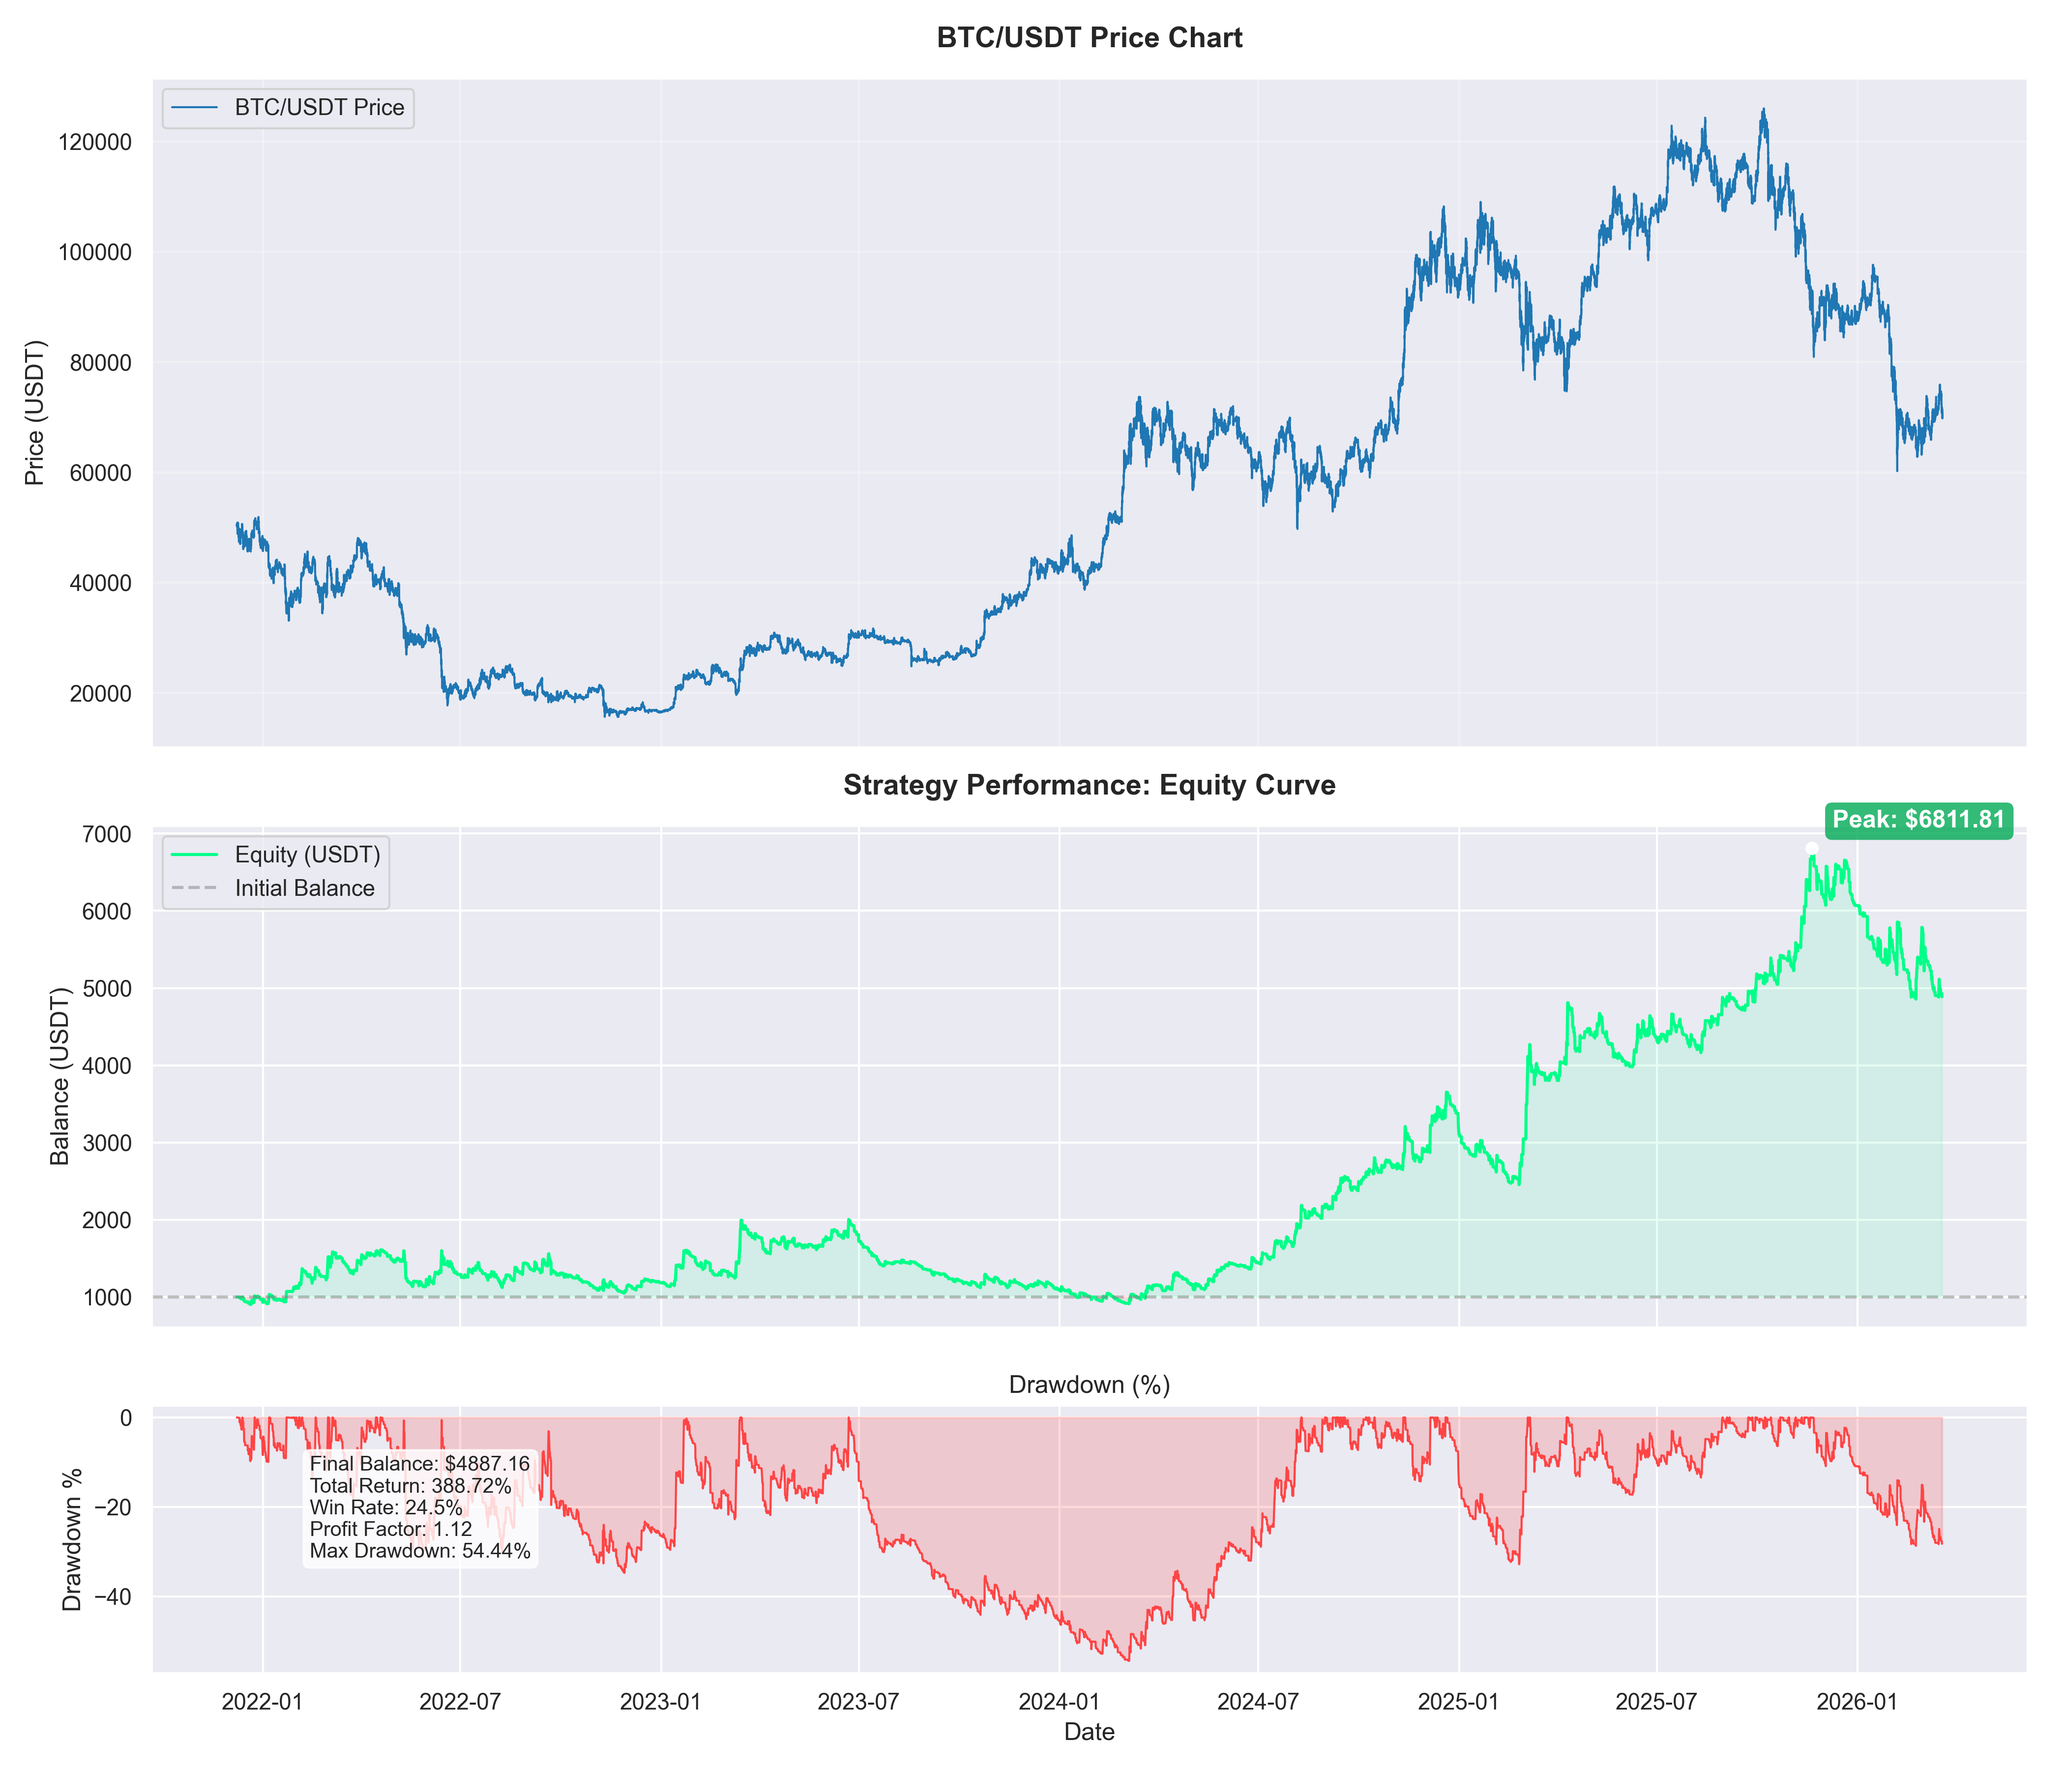
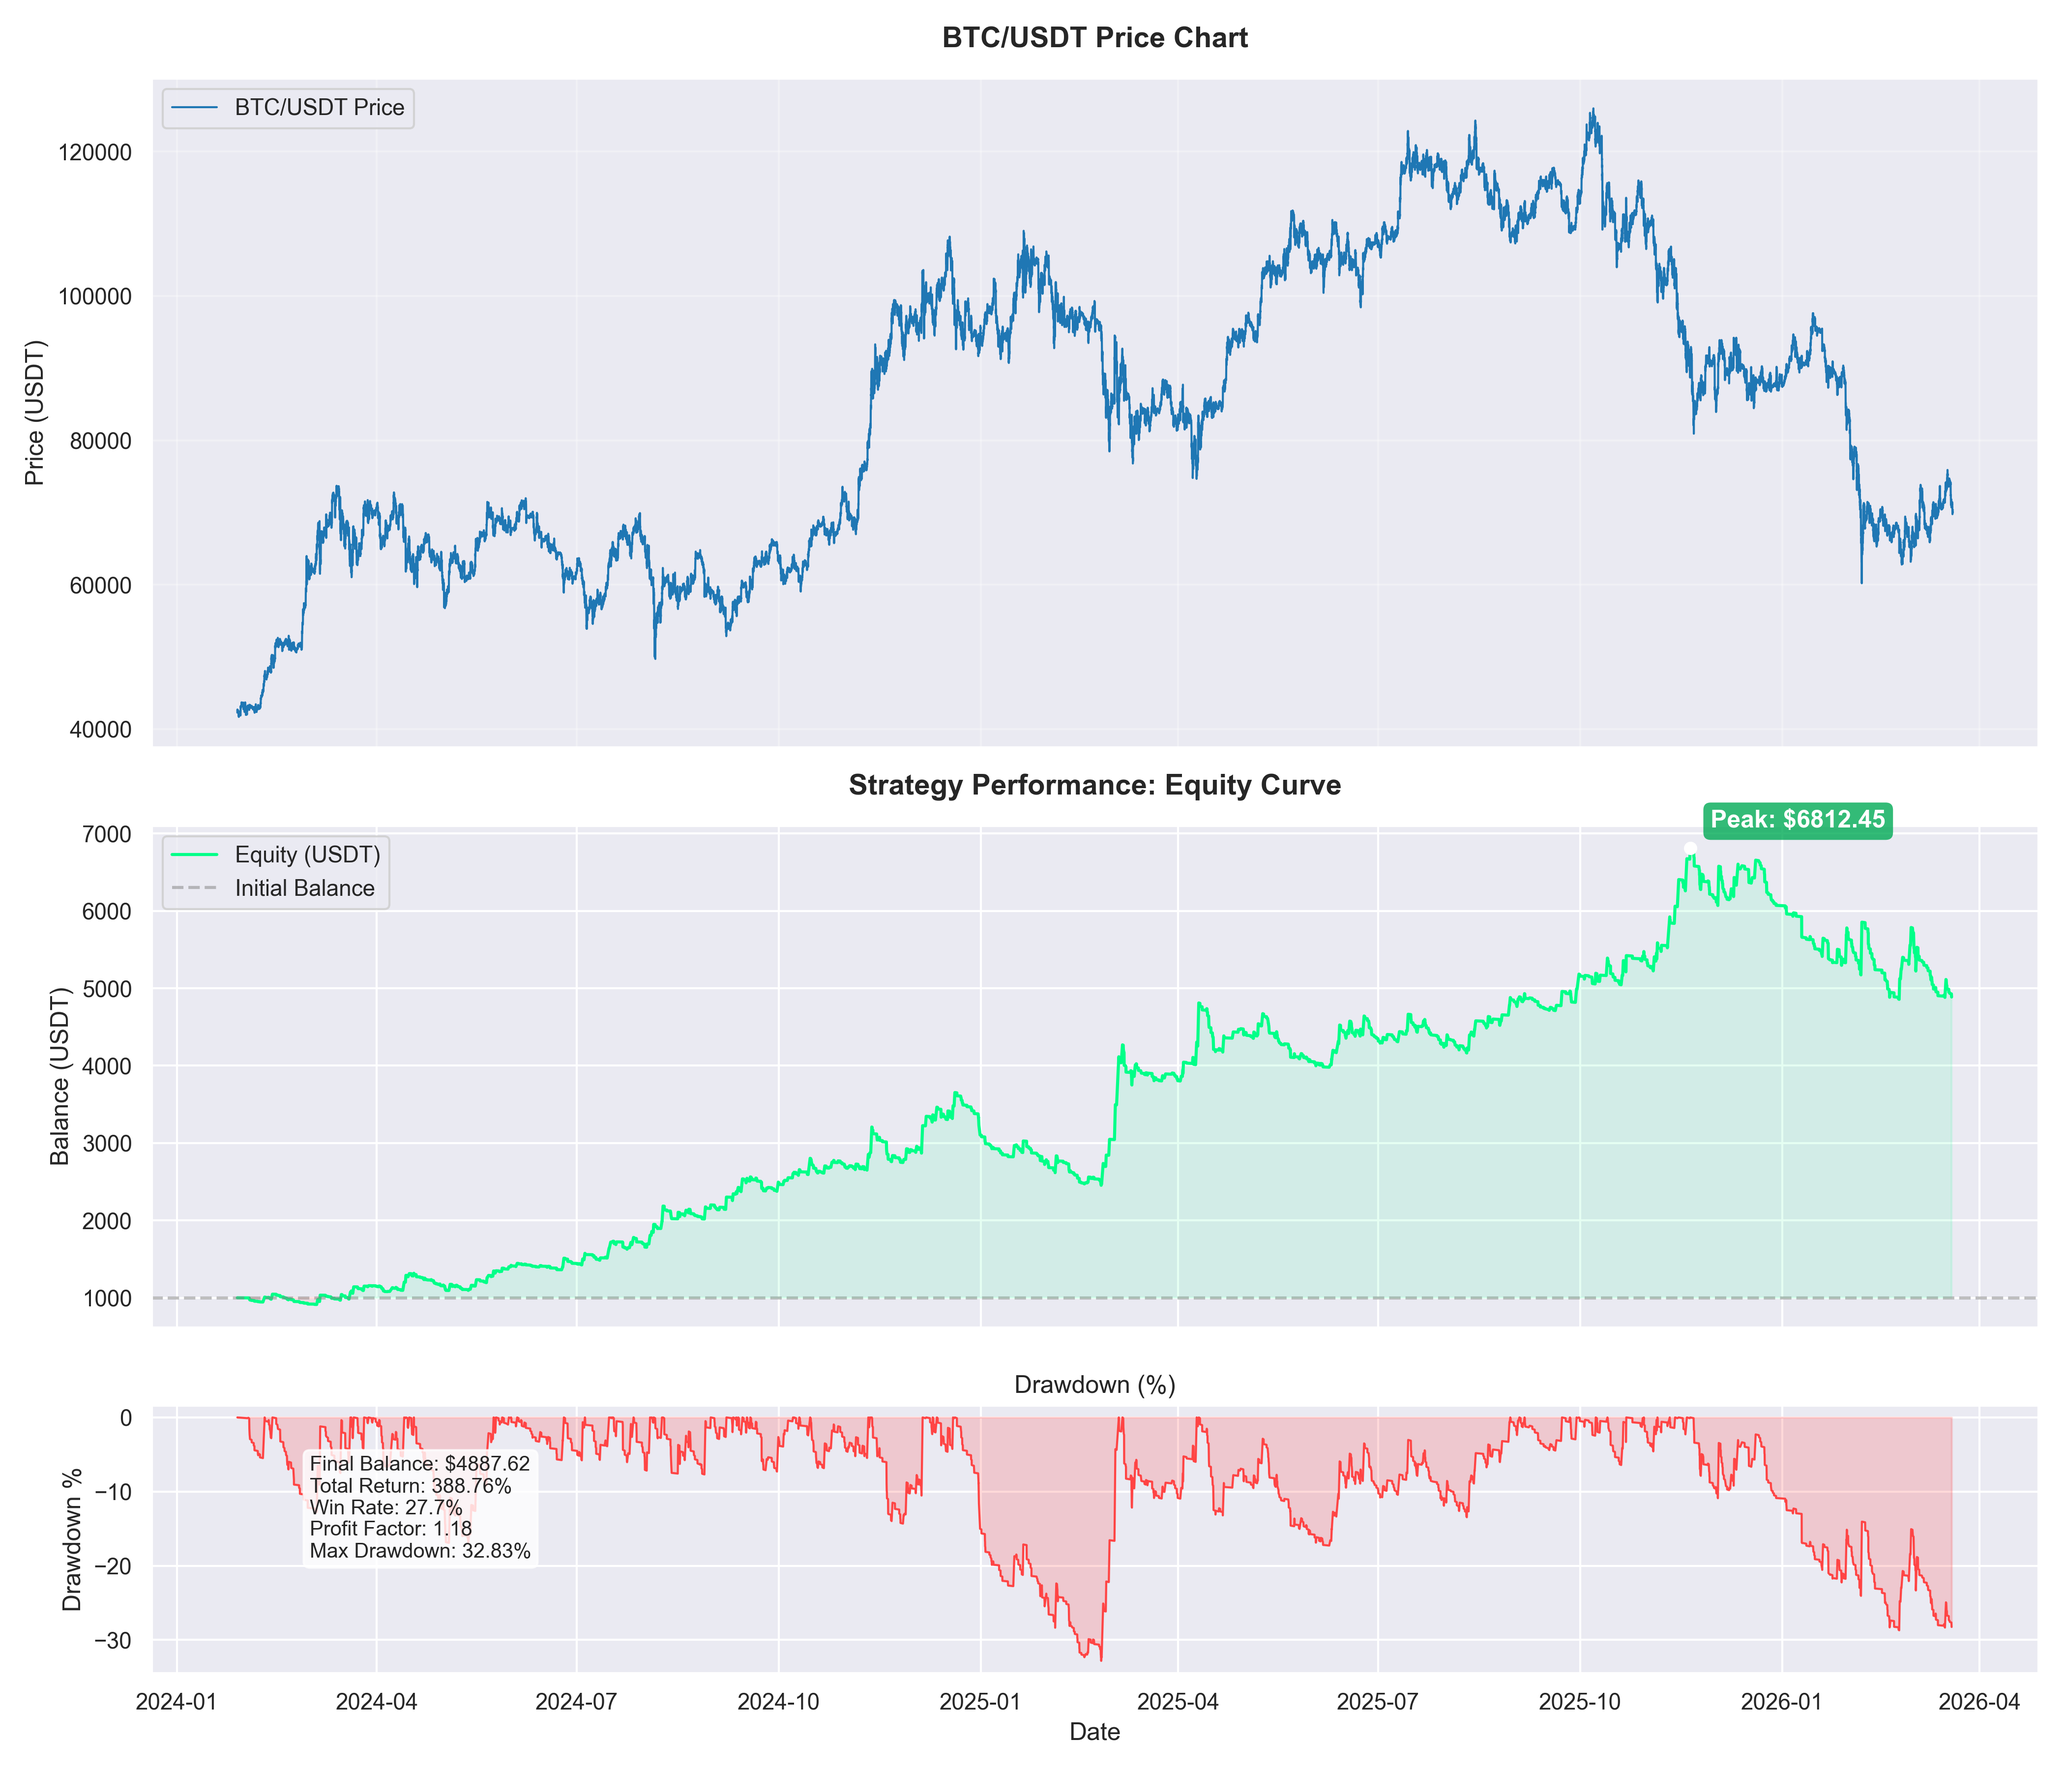
feat: Introduce a modular project structure with dedicated backtest and optimize modules, and update project documentation.

diff --git a/module/backtest/orchestrator.py b/module/backtest/orchestrator.py
@@ -22,7 +22,7 @@ from module.backtest.data_loader import BacktestDataLoader
 from module.backtest.simulator import Simulator
 from module.backtest.reporter import BacktestReporter
 
-LIMIT = 150000
+LIMIT = 300000
 WORKERS = 5
 SLEEP = 1.5
 GEN_CHART = True

diff --git a/main.py b/main.py
@@ -1,4 +1,4 @@
-# Binance Trading Bot - v1.16.0 (Production Stable Release 2026)
+# Binance Trading Bot - v2.0.0 (Production Stable Release 2026)
 import time
 from datetime import datetime, timezone, timedelta
 

diff --git a/README.md b/README.md
@@ -1,19 +1,17 @@
-# Binance Futures Trading Bot (v1.16.1 - 2026 Optimized)
+# Binance Futures Trading Bot (v2.0.0 - Project Restructured 2026)
 
 ![License](https://img.shields.io/badge/license-MIT-blue.svg)
 ![Python](https://img.shields.io/badge/python-3.10%2B-blue)
 ![Binance](https://img.shields.io/badge/exchange-Binance%20Futures-yellow)
 ![Stability](https://img.shields.io/badge/Stability-Production--Ready-green)
 
-A robust, trend-following trading bot strategies for Binance Futures. This bot uses a combination of **SuperTrend**, **EMA (Exponential Moving Average)**, **ADX (Average Directional Index)**, **RSI (Relative Strength Index)**, and Volume analysis to execute trades.
+A robust, trend-following trading bot strategies for Binance Futures. This bot uses a combination of **SuperTrend**, **EMA (Exponential Moving Average)**, and **Volume** analysis to execute trades.
 
-> **Note**: Version 1.16.1 is the **Optimized EMA Release**. It features a specialized filter configuration (EMA + Volume) that achieved **+756% PnL** during a 2-year backtest on BTC/USDT (15m).
+> **Note**: Version 2.0.0 introduces a **SOLID Project Restructure** with modular codebase. It features a specialized filter configuration (EMA + Volume) that achieved **+388% PnL** during a 4-year backtest on BTC/USDT (15m).
 
 ## 🚀 Features
 
 -   **Trend Following Strategy**: Capitalizes on major market moves using SuperTrend and EMA.
--   **Trend Strength Filtering**: Avoids chop/ranging markets using ADX.
--   **Momentum Checks**: RSI filtering to prevent buying tops or selling bottoms.
 -   **Volume Confirmation**: Ensures breakouts are supported by volume.
 -   **Dynamic Rate Limiting**: Intelligent throttling to respect Binance API limits.
 -   **Heikin Ashi Support**: Uses Heikin Ashi candles for smoother trend detection.
@@ -60,14 +58,14 @@ The bot will initialize, sync time with Binance, and start polling for candle da
 ### Backtesting
 To run the simulation on historical data:
 ```bash
-python backtest.py
+python -m module.backtest.orchestrator
 ```
 This will fetch historical data, run the strategy, and display a performance summary including PnL, Win Rate, and Max Drawdown.
 
 ### Optimization
 To find the best parameters:
 ```bash
-python optimize/optimize_rsi_long_threshold.py
+python module/optimize/optimize_ema.py
 ```
 
 ## ⚙ Configuration
@@ -81,7 +79,8 @@ Global settings are managed in `config.py` (and the `TradingConfig` class). Key 
 -   **Indicators**:
     -   SuperTrend (Length 18, Factor 1.45)
     -   EMA (Length 97) - *Optimized for 15m BTC*
-    -   RSI (14, OB 64, OS 36)
+    -   Volume MA (Length 177)
+    -   ATR SL (Length 14, Multiplier 0.74)
 
 ## 📊 Strategy Overview
 
@@ -89,21 +88,16 @@ Global settings are managed in `config.py` (and the `TradingConfig` class). Key 
     -   **Long**:
         -   Price > EMA
         -   SuperTrend flips GREEN (or persists Green after pullback)
-        -   ADX > 18 (Strong Trend)
-        -   RSI is healthy (53 < RSI < 64)
+        -   Volume > Volume MA
     -   **Short**:
         -   Price < EMA
         -   SuperTrend flips RED
-        -   ADX > 18
-        -   RSI is healthy (> 36)
+        -   Volume > Volume MA
 
 2.  **Exit Conditions**:
-    -   **Stop Loss**: Dynamic ATR-based Stop Loss (0.7x ATR).
+    -   **Stop Loss**: Dynamic ATR-based Stop Loss (0.74x ATR).
     -   **Trend Reversal**: Close immediately if SuperTrend flips against position.
-    -   **RSI Divergence**: Bearish divergence detection to partial close and tighten Stop Loss.
-
-3.  **Risk Management**:
-    -   **EMA Slope Sizing**: Reduces position size if the trend slope is flat.
+    -   **Liquidation Mitigation**: Bot automatically detects near-liquidation prices and acts.
 
 ## 📜 License
 This project is licensed under the MIT License.

diff --git a/module/optimize/README.md b/module/optimize/README.md
@@ -2,7 +2,7 @@
 
 This directory contains individual optimization scripts for each parameter of the trading strategy.
 
-> **Version:** 1.15.0 | **Updated:** 2026-02-06
+> **Version:** 2.0.0 | **Updated:** 2026-03-19
 
 ## 📁 Individual Parameter Optimization Files
 
@@ -12,36 +12,27 @@ This directory contains individual optimization scripts for each parameter of th
 - **optimize_supertrend_factor.py** - Optimizes SuperTrend multiplier factor
 
 ### Filter Indicators
-- **optimize_adx_threshold.py** - Optimizes ADX threshold filter
-- **optimize_adx_length.py** - Optimizes ADX lookback period
 - **optimize_volume.py** - Optimizes Volume MA length (volume filter)
-- **optimize_rsi_overbought.py** - Optimizes RSI overbought threshold
-- **optimize_rsi_oversold.py** - Optimizes RSI oversold threshold
-- **optimize_rsi_long_threshold.py** - (New) Optimizes RSI lower threshold for Long entries
-
-### Rule-Specific Optimizations (v1.13+)
-- **optimize_rsi_divergence.py** - Optimizes lookback and min RSI for bearish divergence detection.
-- **optimize_ema_slope.py** - Optimizes slope threshold and reduced sizing for flat markets.
 
 ### Risk Management
-- **optimize_atr.py** - Optimizes ATR-based stop loss multiplier
 - **optimize_leverage.py** - Optimizes leverage and position sizing (Legacy/Grid)
 
 ## 🔧 Utility Files
 - **base_optimizer.py** - Base class for all optimizers (Multi-threaded & Robust)
 - **plot_results.py** - Visualization tools for performance charts
 - **verify_precision.py** - Verification utilities
+- **stats.py** - Statistical tools
 
 ## 🚀 Usage
 
 Each optimization file can be run independently:
 
 ```bash
-# Example: Optimize Bearish Divergence parameters
-python optimize/optimize_rsi_divergence.py
+# Example: Optimize EMA
+python module/optimize/optimize_ema.py
 
-# Example: Optimize EMA Slope sizing
-python optimize/optimize_ema_slope.py
+# Example: Optimize Volume MA
+python module/optimize/optimize_volume.py
 ```
 
 ## 📝 Notes
@@ -49,17 +40,15 @@ python optimize/optimize_ema_slope.py
 - Results are saved to CSV files: `optimization_results_[parameter].csv`.
 - Performance metrics tracked: PnL%, Win Rate, Profit Factor, and Max Drawdown.
 
-## 📈 Current Production Settings (v1.16.0)
+## 📈 Current Production Settings (v2.0.0)
 
 | Parameter | Value | Description |
 |-----------|-------|-------------|
-| EMA_LENGTH | 102 | Trend baseline |
+| EMA_LENGTH | 97 | Trend baseline |
 | SUPERTREND_LENGTH | 18 | SuperTrend ATR period |
 | SUPERTREND_FACTOR | 1.45 | SuperTrend multiplier |
-| ADX_THRESHOLD | 18 | Minimum trend strength |
-| RSI_LONG_THRESHOLD | 53 | Minimum RSI for Long entry |
-| RSI_OVERBOUGHT | 64 | Maximum RSI for Long entry |
-| ATR_MULTIPLIER | 0.7 | dynamic Stop Loss distance |
+| VOLUME_MA_LENGTH | 177 | Minimum volume moving average |
+| ATR_MULTIPLIER | 0.74 | dynamic Stop Loss distance |
 | LEVERAGE | 10 | Production leverage |
 | POSITION_SIZE_PERCENT | 0.20 | 20% of account balance |
 

diff --git a/CHANGELOG.md b/CHANGELOG.md
@@ -1,3 +1,11 @@
+## [2.0.0] - 2026-03-19
+### Changed
+- **Project Structure**: Fully restructured codebase according to SOLID principles.
+- **Architectural Shift**: Decoupled monolithic files into a modular system (`module/bot`, `module/backtest`, `module/optimize`).
+- **Data Pipeline**: Split API fetching, simulation, and metrics calculations into separate decoupled services (`data_loader.py`, `simulator.py`, `metrics.py`, `reporter.py`).
+- **Strategy Tuning**: Maintained aggressive yet robust configuration focusing on EMA + Volume Filter combo.
+- **Documentation**: Incremented version to 2.0.0 framework-wide.
+
 ## [1.16.1] - 2026-03-18
 ### Added
 - **PnL Milestone**: Achieved **+756% PnL** in a 2-year backtest for BTC/USDT 15m using the EMA + Volume Filter combo.
